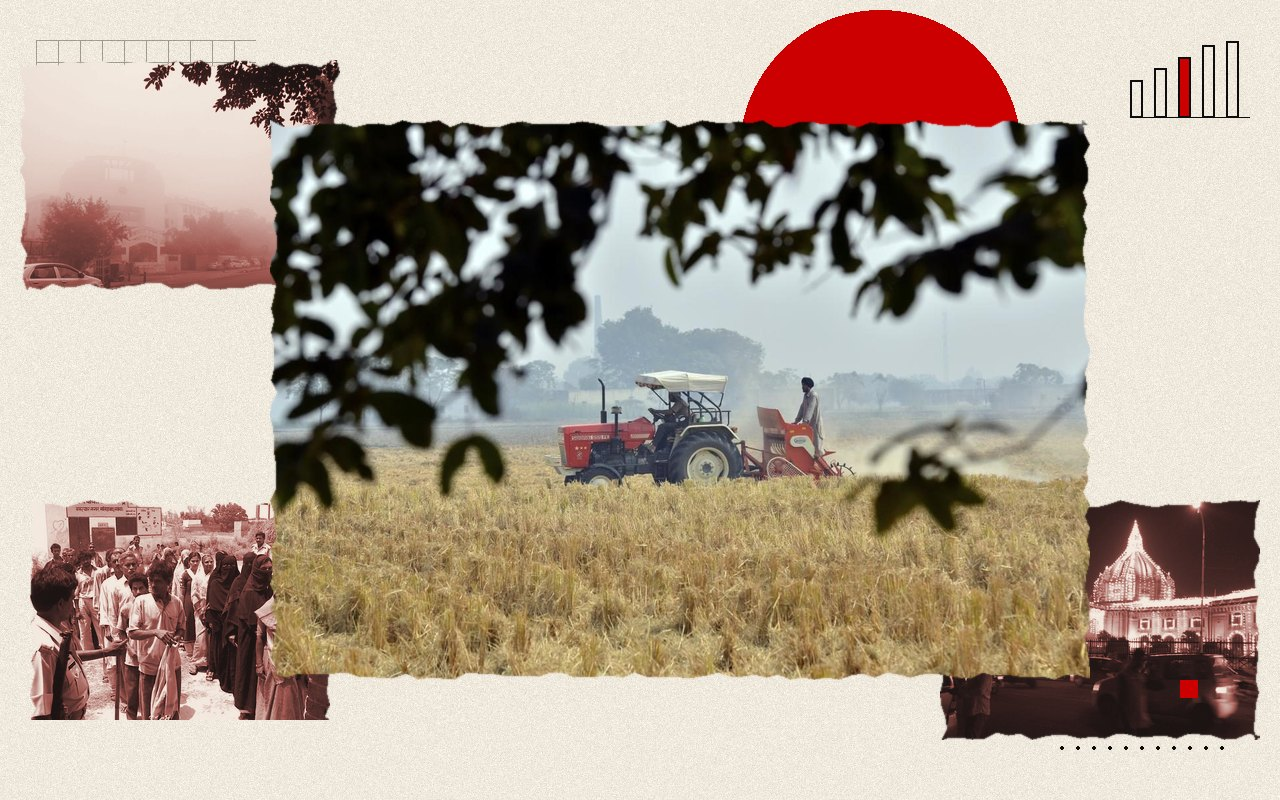
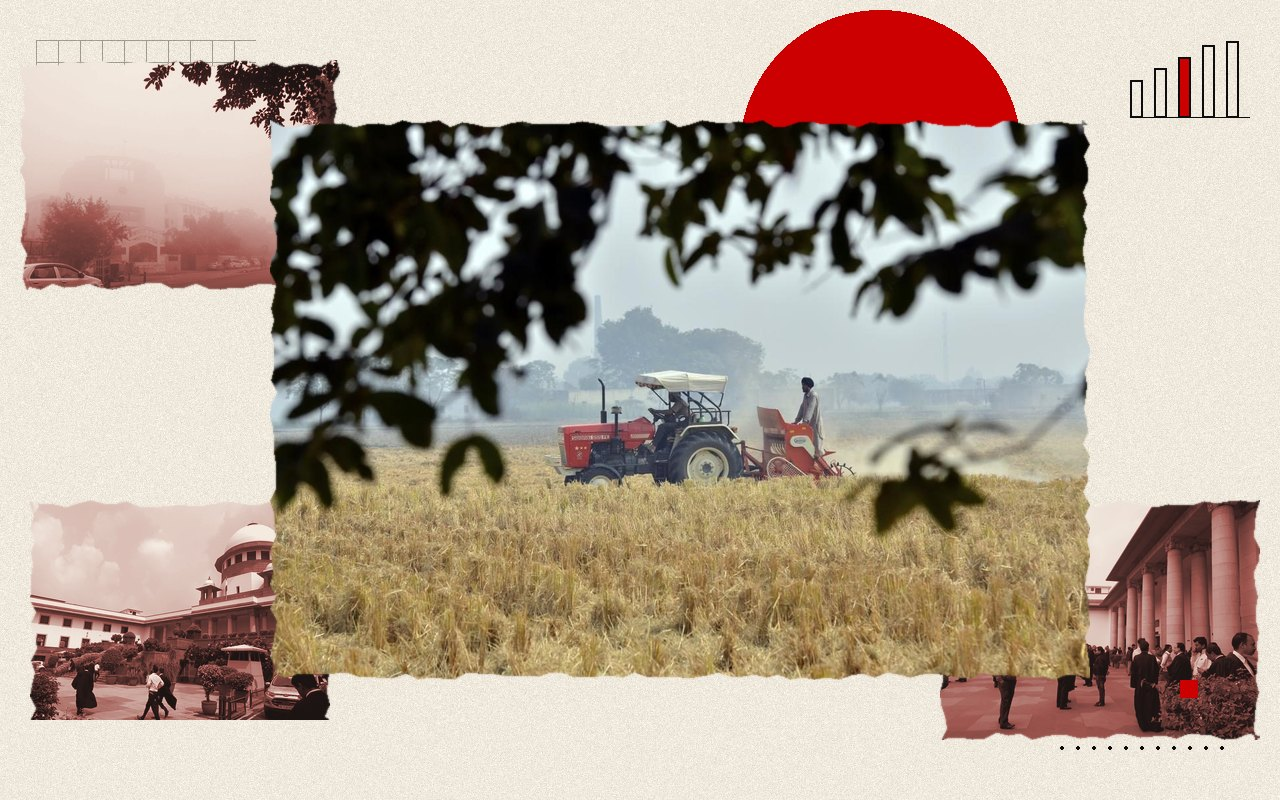
Hourly 22:00 IST (second publish): lead collage tiles fixed
The farm-unions lead's collage carried a voter queue and an election-night building as tiles: treat_photo.py matched "poll" inside "pollution" (INSTITUTION rule) and pulled election scenes. Pattern now "polls?\b"; test_collage.py 38 of 40 hold, 2 known, 0 broken. Collage rebuilt with Delhi smog and Supreme Court tiles; in-story residue photo alt reworded.

Claude-Session: https://claude.ai/code/session_01C3zerTPFZB8TQThDgfRfjy

Changed region(s): [[0.0, 0.625, 0.2812, 0.9062], [0.7188, 0.625, 1.0, 0.9375]]

diff --git a/newsroom/scripts/treat_photo.py b/newsroom/scripts/treat_photo.py
@@ -168,7 +168,7 @@ INSTITUTION = [  # story words -> Indian institutions and settings that belong w
     (r'Naxal|Maoist|CRPF|CoBRA|security forces|insurg', r'CRPF|BSF|jawans|troops|soldiers|Bastar|Dantewada|Sukma'),
     (r'Election Commission|ECI|\bCEC\b|EVM|SIR\b|voter|electoral roll|delimitation|ballot|polling', r'Nirvachan|Election Commission|polling|voter|ballot|inked finger|Indelible'),
     (r'talks|summit|visit|bilateral|diplomat|ambassador|envoy|phone call|speaks to|Jaishankar|MEA|treaty|partnership', r'Hyderabad House|External Affairs|South Block|diplomat|summit'),
-    (r'BJP|Congress|party|election|poll|vote|Lok Sabha|Rajya Sabha|MP\b|MLA|opposition|rally|campaign', r'Parliament|Election Commission|Nirvachan|polling|Vidhan|Lok Sabha|Rajya Sabha'),
+    (r'BJP|Congress|party|election|polls?\b|vote|Lok Sabha|Rajya Sabha|MP\b|MLA|opposition|rally|campaign', r'Parliament|Election Commission|Nirvachan|polling|Vidhan|Lok Sabha|Rajya Sabha'),
     (r'court|judge|bench|bail|petition|verdict|hearing|Supreme Court|High Court', r'Supreme Court|High Court|court'),
     (r'Sensex|Nifty|shares|market|stock|SEBI|IPO|profit|revenue|quarter|Q[1-4]', r'Stock Exchange|BSE|NSE|Dalal|exchange'),
     (r'RBI|rupee|inflation|bank|GDP|Budget|tax|GST|fiscal', r'Reserve Bank|North Block|bank'),

diff --git a/content/en/news/farmers-not-only-cause-delhi-pollution-supreme-court-vehicular-emissions-kisan-unions.md b/content/en/news/farmers-not-only-cause-delhi-pollution-supreme-court-vehicular-emissions-kisan-unions.md
@@ -100,7 +100,7 @@ According to the account of the hearing, the bench also questioned placing the w
 Both unions said solutions should be practical, incentive-based and fair, and that stubble burning should still be reduced.
 
 ```photo
-{"n":1,"subject":"Stubble burning Punjab","caption":"Farmers clearing crop residue in a Punjab field: the court says farm fires have fallen sharply, though farm unions say they were never the main cause.","alt":"Farmers clearing crop residue in a field in Punjab (file photo)"}
+{"n":1,"subject":"Stubble burning Punjab","caption":"Farmers clearing crop residue in a Punjab field: the court says farm fires have fallen sharply, though farm unions say they were never the main cause.","alt":"Crop residue being cleared from a field in Punjab (file photo)"}
 ```
 
 ## What the numbers say
